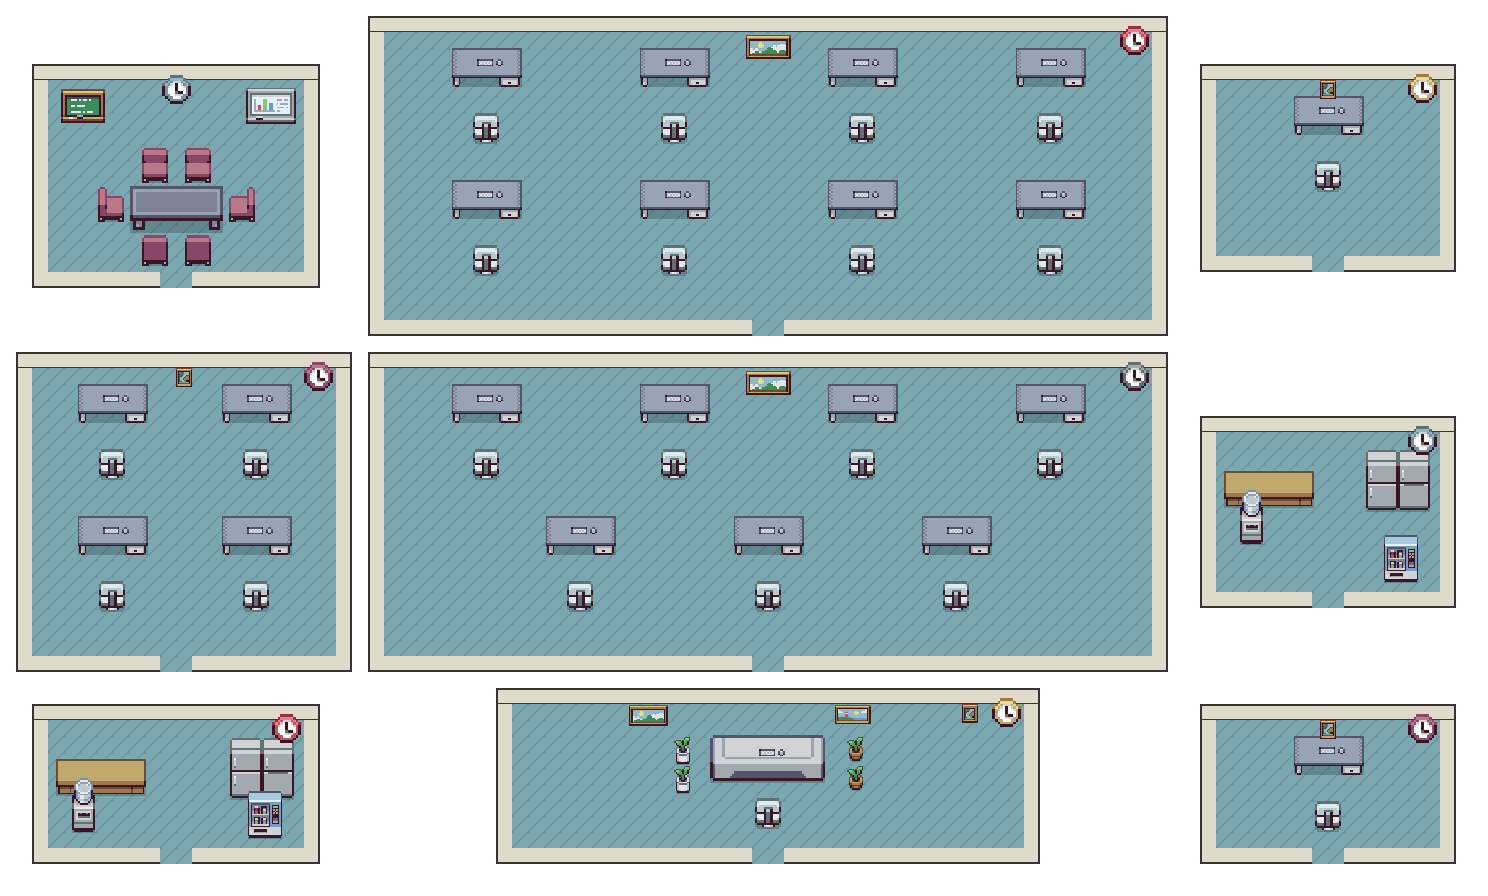
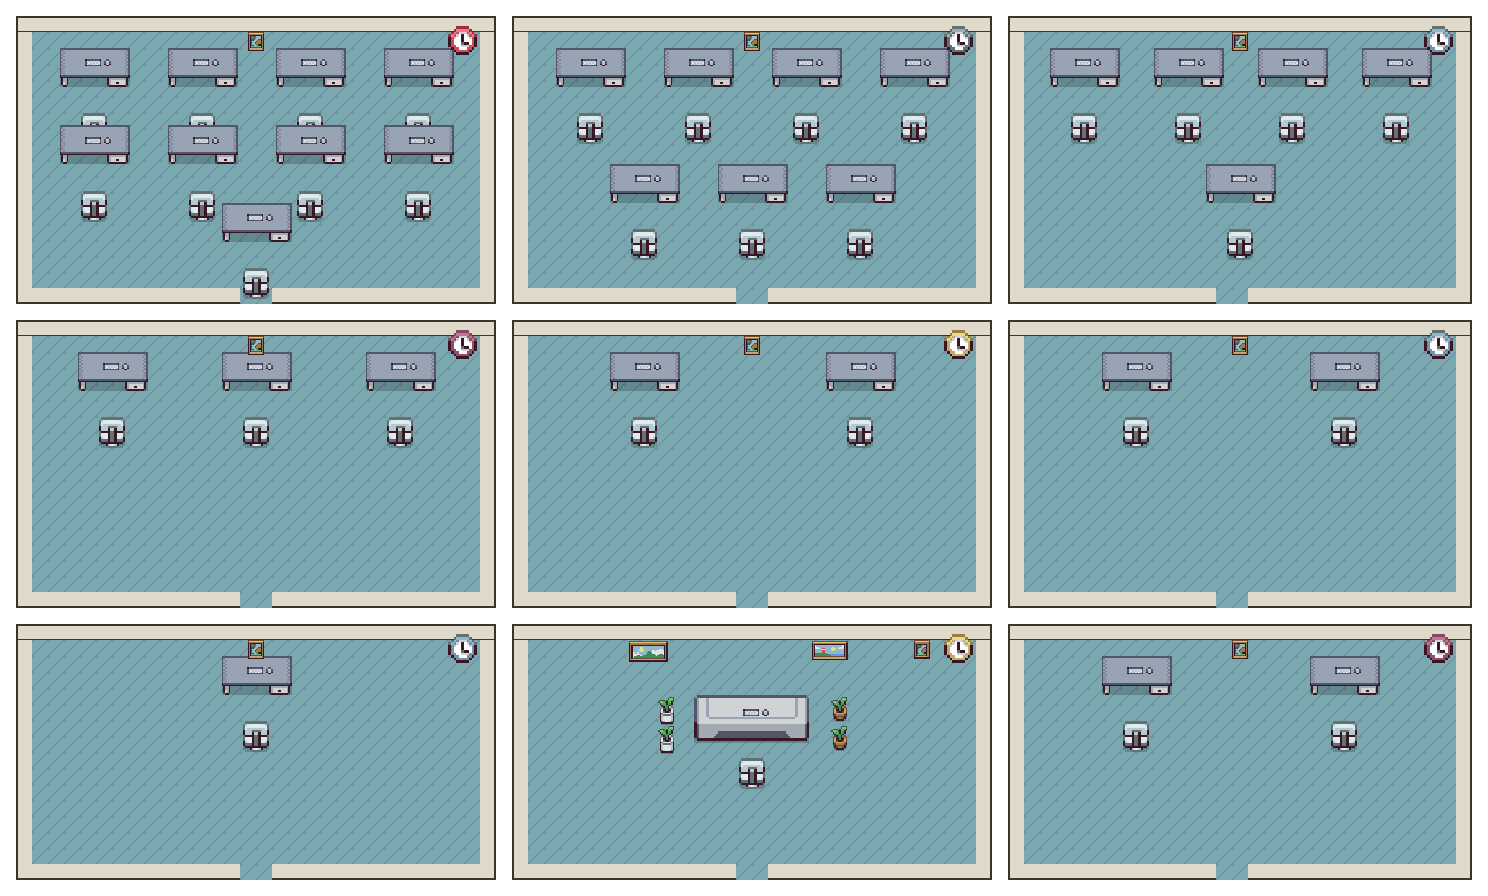
feat(virtual-office): 9-room 九宮格 — one room per department, equal sizes
Redesign the office map for the current org: an equal 3×3 grid of 9 same-size
rooms — 教學組 (幼教學組 + 跨校巡輔 combined), 數位資訊部, ESL教學組, 領導團隊,
人才發展部, 總務管理組, 品牌發展部, 創辦人辦公室 (unchanged, solo), and 系統自動化
(kept as a placeholder for a future team). Decorative rooms (會議室/休息室/茶水間)
removed. Each agent gets a desk + chair + monitor + keyboard + mouse seat.

- Regenerated the baked map via scripts/office-map (tileset path made repo-relative
  so it survives host migration; PNG now written straight to the public asset).
- FLOORS zones + seats, mobile OFFICE_ROOMS, and the department→room map
  (agent-teams) all updated so each department routes to its own room.

diff --git a/ui/src/components/LivingOfficeFloor.tsx b/ui/src/components/LivingOfficeFloor.tsx
@@ -54,15 +54,15 @@ export const FLOORS: FloorDef[] = [
     natW: 1488,
     natH: 896,
     zones: [
-      { id: "meeting", name: "會議室", team: null, x: 2.2, y: 7.1, w: 19.4, h: 25, color: "#10B981" },
-      { id: "teaching", name: "教學組", team: "教學組", x: 24.7, y: 1.8, w: 53.8, h: 35.7, color: "#8B5CF6", seats: [{"x":32.66,"y":13.61},{"x":45.3,"y":13.61},{"x":57.93,"y":13.61},{"x":70.56,"y":13.61},{"x":32.66,"y":28.34},{"x":45.3,"y":28.34},{"x":57.93,"y":28.34},{"x":70.56,"y":28.34}] },
-      { id: "talent", name: "人才發展", team: "人才發展", x: 80.6, y: 7.1, w: 17.2, h: 23.2, color: "#6366F1", seats: [{"x":89.25,"y":18.96}] },
-      { id: "lead", name: "領導團隊", team: "領導團隊", x: 1.1, y: 39.3, w: 22.6, h: 35.7, color: "#F59E0B", seats: [{"x":7.53,"y":51.11},{"x":17.2,"y":51.11},{"x":7.53,"y":65.84},{"x":17.2,"y":65.84}] },
-      { id: "it", name: "資訊部", team: "資訊部", x: 24.7, y: 39.3, w: 53.8, h: 35.7, color: "#3B82F6", seats: [{"x":32.66,"y":51.11},{"x":45.3,"y":51.11},{"x":57.93,"y":51.11},{"x":70.56,"y":51.11},{"x":38.98,"y":65.84},{"x":51.61,"y":65.84},{"x":64.25,"y":65.84}] },
-      { id: "lounge", name: "休息室", team: null, x: 80.6, y: 46.4, w: 17.2, h: 21.4, color: "#EC4899" },
-      { id: "pantry", name: "茶水間", team: null, x: 2.2, y: 78.6, w: 19.4, h: 17.9, color: "#14B8A6" },
-      { id: "founder", name: "創辦人辦公室", team: null, x: 33.3, y: 76.8, w: 36.6, h: 19.6, color: "#A855F7", soloAgent: "創辦人", seats: [{"x":51.61,"y":90}] },
-      { id: "auto", name: "系統自動化", team: "系統自動化", x: 80.6, y: 78.6, w: 17.2, h: 17.9, color: "#F97316", seats: [{"x":89.25,"y":90.39}] },
+      { id: "teaching", name: "教學組", team: "教學組", x: 1.1, y: 1.8, w: 32.3, h: 32.1, color: "#8B5CF6", seats: [{"x":6.32,"y":13.61},{"x":13.58,"y":13.61},{"x":20.83,"y":13.61},{"x":28.09,"y":13.61},{"x":6.32,"y":22.24},{"x":13.58,"y":22.24},{"x":20.83,"y":22.24},{"x":28.09,"y":22.24},{"x":17.2,"y":30.87}] },
+      { id: "it", name: "數位資訊部", team: "數位資訊部", x: 34.4, y: 1.8, w: 32.3, h: 32.1, color: "#3B82F6", seats: [{"x":39.65,"y":13.61},{"x":46.91,"y":13.61},{"x":54.17,"y":13.61},{"x":61.42,"y":13.61},{"x":43.28,"y":26.55},{"x":50.54,"y":26.55},{"x":57.8,"y":26.55}] },
+      { id: "esl", name: "ESL教學組", team: "ESL教學組", x: 67.7, y: 1.8, w: 31.2, h: 32.1, color: "#14B8A6", seats: [{"x":72.85,"y":13.61},{"x":79.84,"y":13.61},{"x":86.83,"y":13.61},{"x":93.82,"y":13.61},{"x":83.33,"y":26.55}] },
+      { id: "lead", name: "領導團隊", team: "領導團隊", x: 1.1, y: 35.7, w: 32.3, h: 32.1, color: "#F59E0B", seats: [{"x":7.53,"y":47.54},{"x":17.2,"y":47.54},{"x":26.88,"y":47.54}] },
+      { id: "talent", name: "人才發展部", team: "人才發展部", x: 34.4, y: 35.7, w: 32.3, h: 32.1, color: "#6366F1", seats: [{"x":43.28,"y":47.54},{"x":57.8,"y":47.54}] },
+      { id: "ga", name: "總務管理組", team: "總務管理組", x: 67.7, y: 35.7, w: 31.2, h: 32.1, color: "#EC4899", seats: [{"x":76.34,"y":47.54},{"x":90.32,"y":47.54}] },
+      { id: "brand", name: "品牌發展部", team: "品牌發展部", x: 1.1, y: 69.6, w: 32.3, h: 28.6, color: "#F43F5E", seats: [{"x":17.2,"y":81.46}] },
+      { id: "founder", name: "創辦人辦公室", team: null, x: 34.4, y: 69.6, w: 32.3, h: 28.6, color: "#A855F7", soloAgent: "創辦人", seats: [{"x":50.54,"y":85.54}] },
+      { id: "auto", name: "系統自動化", team: "系統自動化", x: 67.7, y: 69.6, w: 31.2, h: 28.6, color: "#F97316", seats: [{"x":76.34,"y":81.46},{"x":90.32,"y":81.46}] },
     ],
   },
 ];

diff --git a/ui/src/lib/agent-teams.ts b/ui/src/lib/agent-teams.ts
@@ -143,17 +143,21 @@ export const OFFICE_UNGROUPED_KEY = "__ungrouped__";
 // room. Keep the right-hand values in sync with the room `team` keys in
 // LivingOfficeFloor / office-rooms.
 const DEPARTMENT_ROOM: Record<string, string> = {
-  "資訊部": "資訊部",
-  "數位資訊部": "資訊部",
+  // IT
+  "資訊部": "數位資訊部",
+  "數位資訊部": "數位資訊部",
+  // Teaching room absorbs 幼教學組 + 跨校巡輔 (and legacy/roomless teaching depts)
   "教學組": "教學組",
   "幼教學組": "教學組",
-  "外師教學組": "教學組",
-  "ESL教學組": "教學組",
-  "註冊組": "教學組",
-  "總務管理組": "教學組",
   "跨校巡輔": "教學組",
-  "人才發展": "人才發展",
-  "人才發展部": "人才發展",
+  "外師教學組": "教學組",
+  "註冊組": "教學組",
+  // Own rooms
+  "ESL教學組": "ESL教學組",
+  "總務管理組": "總務管理組",
+  "人才發展": "人才發展部",
+  "人才發展部": "人才發展部",
+  "品牌發展部": "品牌發展部",
   "領導團隊": "領導團隊",
   "系統自動化": "系統自動化",
 };

diff --git a/ui/src/lib/office-rooms.ts b/ui/src/lib/office-rooms.ts
@@ -20,9 +20,12 @@ export interface OfficeRoom {
 export const OFFICE_ROOMS: OfficeRoom[] = [
   { id: "founder", name: "創辦人辦公室", team: null, soloAgent: "創辦人" },
   { id: "teaching", name: "教學組", team: "教學組" },
-  { id: "it", name: "資訊部", team: "資訊部" },
+  { id: "it", name: "數位資訊部", team: "數位資訊部" },
+  { id: "esl", name: "ESL教學組", team: "ESL教學組" },
   { id: "lead", name: "領導團隊", team: "領導團隊" },
-  { id: "talent", name: "人才發展", team: "人才發展" },
+  { id: "talent", name: "人才發展部", team: "人才發展部" },
+  { id: "ga", name: "總務管理組", team: "總務管理組" },
+  { id: "brand", name: "品牌發展部", team: "品牌發展部" },
   { id: "auto", name: "系統自動化", team: "系統自動化" },
 ];
 
